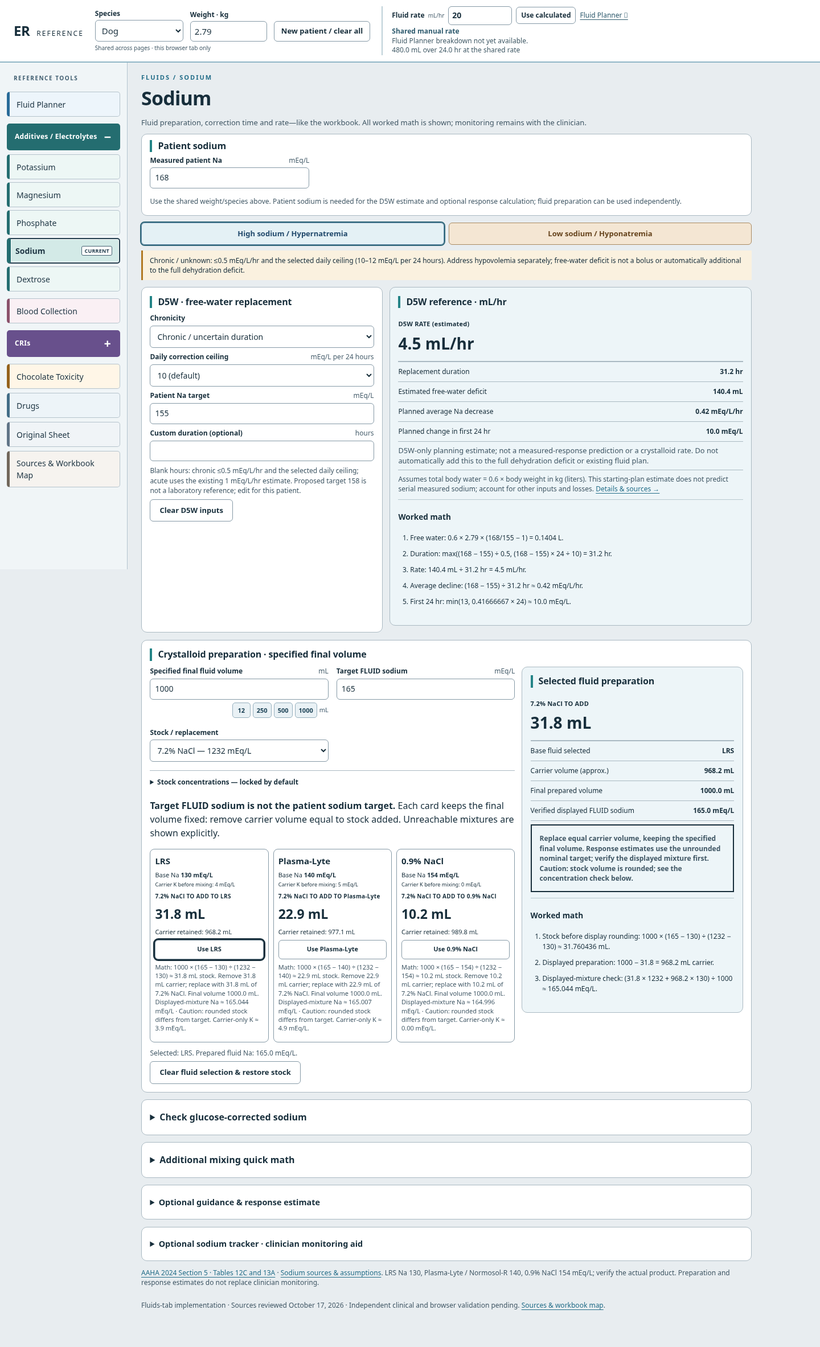
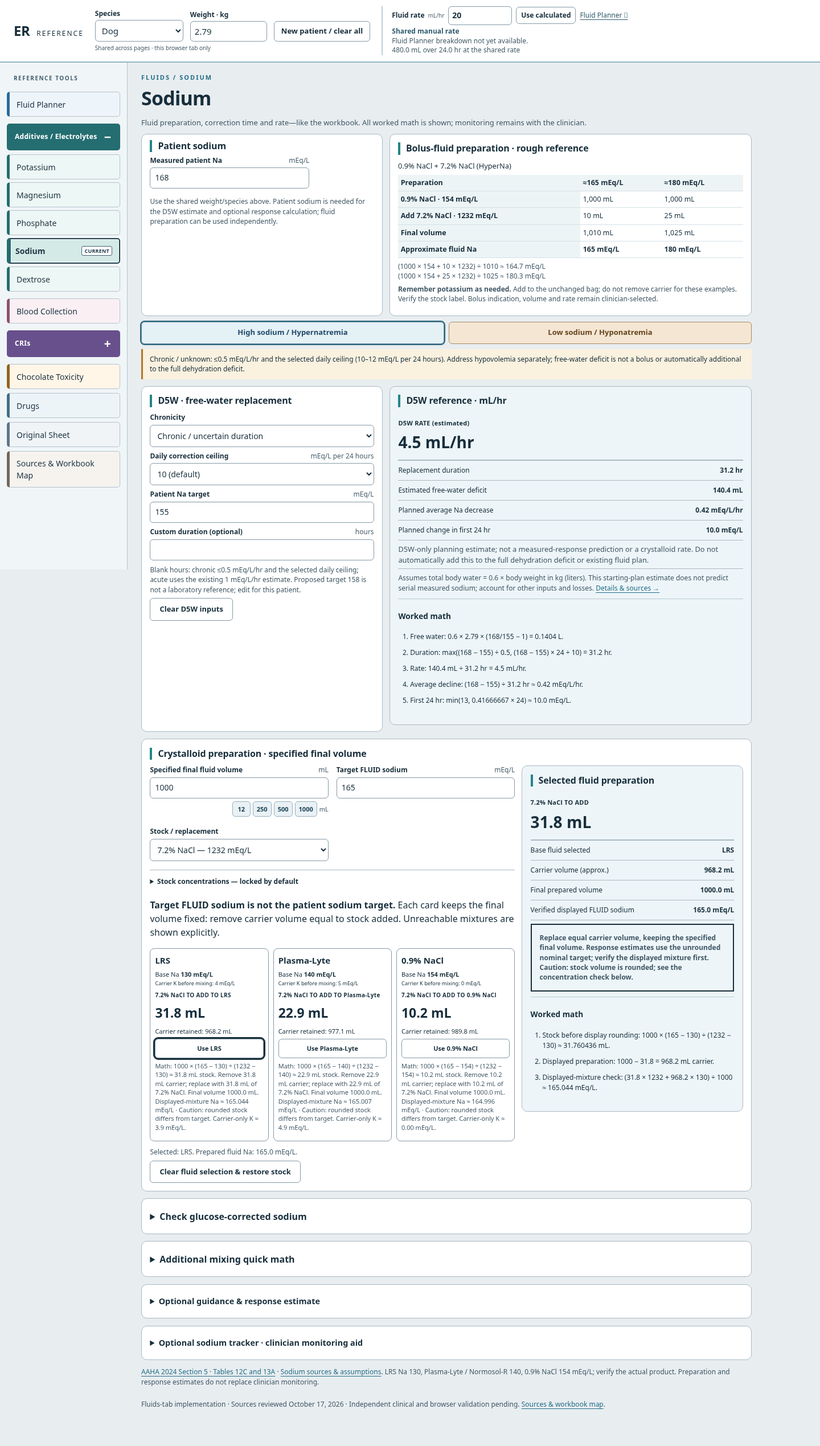
Add workbook saline quick reference beside patient sodium

diff --git a/dist/sodium.html b/dist/sodium.html
@@ -1,1 +1,1 @@
-<!doctype html><html lang="en"><head><meta charset="utf-8"><meta name="viewport" content="width=device-width,initial-scale=1"><title>Sodium · ER Reference</title><link rel="stylesheet" href="style.css"><link rel="stylesheet" href="sodium-simple.css"></head><body class="potassium-page electrolyte-compact sodium-simple" data-tool="sodium"><header class="patient-header"><a class="brand" href="index.html">ER<span>REFERENCE</span></a><div class="master-patient" role="group" aria-label="Shared patient"><label>Species<select id="masterSpecies"><option value="">Select species</option><option value="dog">Dog</option><option value="cat">Cat</option></select></label><label>Weight · kg<input id="masterWeight" type="number" inputmode="decimal" min="0.001" step="any" placeholder="Patient kg"></label><button type="button" id="clearPatient">New patient / clear all</button><small id="patientSessionNote">Shared patient · this browser tab only</small></div><section class="shared-fluid" aria-label="Shared fluid plan"><div class="shared-fluid-top"><label for="sharedFluidRate">Fluid rate <span>mL/hr</span></label><input id="sharedFluidRate" type="number" min=".001" step="any" placeholder="From planner / enter rate" aria-describedby="sharedFluidStatus"><button type="button" id="useCalculatedFluid">Use calculated</button><a href="index.html">Fluid Planner ↗</a></div><div id="sharedFluidStatus" class="shared-fluid-status" role="status"></div><div id="sharedFluidBreakdown" class="shared-fluid-breakdown"></div><div id="sharedFluidAmounts" class="shared-fluid-amounts"></div></section></header><a class="skip-link" href="#main-content">Skip to content</a><aside class="sidebar" aria-label="Reference navigation"><details id="sectionMenu" open><summary>Sections <span>— Sodium</span></summary><div class="sidebar-title">REFERENCE TOOLS</div><nav aria-label="Reference sections"><a href="index.html">Fluid Planner</a><details class="nav-group" open><summary>Additives / Electrolytes</summary><div class="nav-children"><a href="potassium.html">Potassium</a><a href="magnesium.html">Magnesium</a><a href="phosphate.html">Phosphate</a><a href="sodium.html" aria-current="page">Sodium<span class="current-page">Current</span></a><a href="dextrose.html">Dextrose</a></div></details><a href="blood-collection.html">Blood Collection</a><details class="nav-group cri-nav"><summary>CRIs</summary><div class="nav-children"><a href="cri-fentanyl.html">Fentanyl</a><a href="cri-lidocaine.html"><span class="lidocaine-nav-label">Lidocaine</span><span class="cat-restriction" hidden>Unavailable for cats</span></a><a href="cri-ketamine.html">Ketamine</a><a href="cri-norepinephrine.html">Norepinephrine</a><a href="cri-insulin.html">Insulin</a><a href="cri-reglan.html">Reglan</a></div></details><a href="chocolate.html">Chocolate Toxicity</a><a href="drugs.html">Drugs</a><a href="original-sheet.html">Original Sheet</a><a href="sources.html">Sources & Workbook Map</a></nav></details></aside><main id="main-content" class="electrolyte-main"><div class="eyebrow">FLUIDS / SODIUM</div><h1>Sodium</h1><p class="intro">Fluid preparation, correction time and rate—like the workbook. All worked math is shown; monitoring remains with the clinician.</p><form data-electrolyte class="compact-sodium-patient simple-sodium-context"><section class="panel"><h2>Patient sodium</h2><div class="patient-grid"><label>Measured patient Na <span>mEq/L</span><input id="nCurrent" type="number" min=".001" step="any" value="" required></label></div><p class="help">Use the shared weight/species above. Patient sodium is needed for the D5W estimate and optional response calculation; fluid preparation can be used independently.</p></section></form><div class="simple-sodium-paths" role="group" aria-label="Sodium pathway"><button type="button" data-path="hyper" aria-pressed="true">High sodium / Hypernatremia</button><button type="button" data-path="hypo" aria-pressed="false">Low sodium / Hyponatremia</button></div><section id="hyperWorkflow"><div class="notice">Chronic / unknown: ≤0.5 mEq/L/hr and the selected daily ceiling (10–12 mEq/L per 24 hours). Address hypovolemia separately; free-water deficit is not a bolus or automatically additional to the full dehydration deficit.</div><div class="sodium-two"><form data-electrolyte><section class="panel"><h2>D5W · free-water replacement</h2><label>Chronicity<select id="nType"><option value="chronic">Chronic / uncertain duration</option><option value="acute">Confirmed acute</option></select></label><label>Daily correction ceiling <span>mEq/L per 24 hours</span><select id="nDailyLimit"><option value="10">10 (default)</option><option value="11">11</option><option value="12">12</option></select></label><label>Patient Na target <span>mEq/L</span><input id="nGoal" type="number" min=".001" step="any" value="158" required></label><label>Custom duration (optional) <span>hours</span><input id="nHours" type="number" min=".001" step="any" value=""></label><p class="help">Blank hours: chronic ≤0.5 mEq/L/hr and the selected daily ceiling; acute uses the existing 1 mEq/L/hr estimate. Proposed target 158 is not a laboratory reference; edit for this patient.</p><button type="reset">Clear D5W inputs</button></section></form><section class="panel results compact-result" id="nWaterSection" tabindex="-1"><h2>D5W reference · mL/hr</h2><div id="nWater" aria-live="polite"></div><p id="resultAssumptions" class="help result-assumptions">Assumes total body water = 0.6 × body weight in kg (liters). This starting-plan estimate does not predict serial measured sodium; account for other inputs and losses. <a href="sources.html#sodium-source">Details &amp; sources →</a></p><section id="nWaterMath" class="worked-math"><h3>Worked math</h3><ol id="nWaterSteps"></ol></section></section></div></section><section class="panel compact-sodium-mix" id="mixingTool"><h2>Crystalloid preparation · specified final volume</h2><div class="sodium-mix-workspace"><form data-electrolyte><div class="patient-grid"><label>Specified final fluid volume <span>mL</span><input id="nVolume" type="number" min=".001" step="any" value="1000" required><span class="volume-presets" role="group" aria-label="Quick volumes in mL" data-volume-for="nVolume"><button type="button" data-volume-target="nVolume" data-volume-value="12" aria-label="Set volume to 12 mL">12</button><button type="button" data-volume-target="nVolume" data-volume-value="250" aria-label="Set volume to 250 mL">250</button><button type="button" data-volume-target="nVolume" data-volume-value="500" aria-label="Set volume to 500 mL">500</button><button type="button" data-volume-target="nVolume" data-volume-value="1000" aria-label="Set volume to 1000 mL">1000</button><small>mL</small></span></label><label>Target FLUID sodium <span>mEq/L</span><input id="nFluidGoal" type="number" min="0" step="any" value="" required></label><label>Stock / replacement<select id="nPreset"><option value="1232">7.2% NaCl — 1232 mEq/L</option><option value="1283">7.5% NaCl — 1283 mEq/L</option><option value="513">3% NaCl — 513 mEq/L</option><option value="0">D5W — sodium-free replacement · 0 mEq/L</option><option value="custom">Custom concentration</option></select></label></div><details class="stock-settings"><summary>Stock concentrations — locked by default</summary><div class="grid"><label>Stock / replacement Na <span>mEq/L</span><input id="nStock" data-stock type="number" readonly min="0" step="any" value="1232" required></label></div><button type="button" data-lock="nStock">Edit concentrations</button><span class="lock-state" data-lock-state="nStock">Locked</span><p class="help">Locked default: 7.2% NaCl at the workbook’s 1232 mEq/L. Choose 3% or 7.5% explicitly if those match your product, or unlock for a custom label concentration. Sodium-free replacement is formulation math only; it is not a routine hyponatremia treatment instruction.</p></details><input type="hidden" id="nBase" value=""><input type="hidden" id="nFluidName" value=""><p><b>Target FLUID sodium is not the patient sodium target.</b> Each card keeps the final volume fixed: remove carrier volume equal to stock added. Unreachable mixtures are shown explicitly.</p><div class="fluid-card-grid"><section class="fluid-card"><h3>LRS</h3><p>Base Na <b>130 mEq/L</b><br><small>Carrier K before mixing: 4 mEq/L</small></p><span class="card-output-label" id="nCardStockLabel0">7.2% NaCl TO ADD TO LRS</span><strong id="nCardMl0">— mL</strong><p id="nCardCarrier0">Carrier: — mL</p><button type="button" data-base="130" data-fluid="LRS" aria-pressed="false">Use LRS</button><div class="fluid-card-details"><p id="nCardNote0" class="help">Enter target fluid Na and volume.</p></div></section><section class="fluid-card"><h3>Plasma-Lyte</h3><p>Base Na <b>140 mEq/L</b><br><small>Carrier K before mixing: 5 mEq/L</small></p><span class="card-output-label" id="nCardStockLabel1">7.2% NaCl TO ADD TO Plasma-Lyte</span><strong id="nCardMl1">— mL</strong><p id="nCardCarrier1">Carrier: — mL</p><button type="button" data-base="140" data-fluid="Plasma-Lyte" aria-pressed="false">Use Plasma-Lyte</button><div class="fluid-card-details"><p id="nCardNote1" class="help">Enter target fluid Na and volume.</p></div></section><section class="fluid-card"><h3>0.9% NaCl</h3><p>Base Na <b>154 mEq/L</b><br><small>Carrier K before mixing: 0 mEq/L</small></p><span class="card-output-label" id="nCardStockLabel2">7.2% NaCl TO ADD TO 0.9% NaCl</span><strong id="nCardMl2">— mL</strong><p id="nCardCarrier2">Carrier: — mL</p><button type="button" data-base="154" data-fluid="0.9% NaCl" aria-pressed="false">Use 0.9% NaCl</button><div class="fluid-card-details"><p id="nCardNote2" class="help">Enter target fluid Na and volume.</p></div></section></div><p id="nSelectedFluid" class="help">No fluid selected yet.</p><button type="reset">Clear fluid selection & restore stock</button></form><section class="panel results compact-result" id="nMixSection" tabindex="-1"><h2>Selected fluid preparation</h2><div id="nMix" aria-live="polite"></div><section id="nMixMath" class="worked-math"><h3>Worked math</h3><ol id="nMixSteps"></ol></section></section></div></section><details class="panel"><summary>Check glucose-corrected sodium</summary><form data-electrolyte><div class="patient-grid"><label>Measured sodium <span>mEq/L</span><input id="gNa" type="number" min=".001" step="any" value="" required></label><label>Glucose <span>mg/dL</span><input id="gGlucose" type="number" min="100" step="any" value="" required></label></div><button type="reset">Clear glucose correction</button></form><section class="panel results compact-result" id="nGlucoseSection" tabindex="-1"><h2>Corrected sodium</h2><div id="nGlucose" aria-live="polite"></div><section id="nGlucoseMath" class="worked-math"><h3>Worked math</h3><ol id="nGlucoseSteps"></ol></section></section></details><details class="panel"><summary>Additional mixing quick math</summary><form data-electrolyte><div class="grid"><label>Fluid A volume <span>mL</span><input id="qVolumeA" type="number" min="0" step="any" value="" required><span class="volume-presets" role="group" aria-label="Quick volumes in mL" data-volume-for="qVolumeA"><button type="button" data-volume-target="qVolumeA" data-volume-value="12" aria-label="Set volume to 12 mL">12</button><button type="button" data-volume-target="qVolumeA" data-volume-value="250" aria-label="Set volume to 250 mL">250</button><button type="button" data-volume-target="qVolumeA" data-volume-value="500" aria-label="Set volume to 500 mL">500</button><button type="button" data-volume-target="qVolumeA" data-volume-value="1000" aria-label="Set volume to 1000 mL">1000</button><small>mL</small></span></label><label>Fluid A Na <span>mEq/L</span><input id="qNaA" type="number" min="0" step="any" value="130" required></label><label>Fluid B volume <span>mL</span><input id="qVolumeB" type="number" min="0" step="any" value="" required><span class="volume-presets" role="group" aria-label="Quick volumes in mL" data-volume-for="qVolumeB"><button type="button" data-volume-target="qVolumeB" data-volume-value="12" aria-label="Set volume to 12 mL">12</button><button type="button" data-volume-target="qVolumeB" data-volume-value="250" aria-label="Set volume to 250 mL">250</button><button type="button" data-volume-target="qVolumeB" data-volume-value="500" aria-label="Set volume to 500 mL">500</button><button type="button" data-volume-target="qVolumeB" data-volume-value="1000" aria-label="Set volume to 1000 mL">1000</button><small>mL</small></span></label><label>Fluid B Na <span>mEq/L</span><input id="qNaB" type="number" min="0" step="any" value="0" required></label></div><button type="reset">Clear quick math</button></form><section class="panel results compact-result" id="nQuickSection" tabindex="-1"><h2>Mixed fluid</h2><div id="nQuick" aria-live="polite"></div><section id="nQuickMath" class="worked-math"><h3>Worked math</h3><ol id="nQuickSteps"></ol></section></section></details><details class="panel" id="sodiumGuidance"><summary>Optional guidance & response estimate</summary><details class="workflow-checklist"><summary>Assessment checklist</summary><ol><li>Assess perfusion, neurologic signs, hydration, and chronicity.</li><li>Restore perfusion first if hypovolemic; investigate water access, water losses, renal concentrating ability, and sodium exposure.</li><li>Plan controlled free-water replacement; tailor fluid sodium when needed and recheck the measured response.</li></ol></details><details class="workflow-checklist"><summary>Assessment checklist</summary><ol><li>Assess neurologic urgency and perfusion first.</li><li>Confirm the result and glucose effect; assess volume status and chronicity.</li><li>Investigate the cause, choose the fluid and initial correction plan, then recheck sodium.</li></ol></details><section id="hypoWorkflow" hidden><div class="notice compact-caution">Neurologic compromise or hypoperfusion: assess and stabilize urgently. The mixing cards are not a rescue-bolus protocol.</div><details class="panel"><summary>Hyponatremia workup & investigation</summary><div class="sodium-two"><div><h3>Urgent assessment</h3><p>Seizures or marked neurologic compromise require urgent evaluation for symptomatic hyponatremia; consider other causes concurrently. Stabilize hypoperfusion with a fluid selected to avoid an abrupt sodium shift.</p><p>AAHA describes 2–6 mL/kg of 3–7.5% NaCl over 10–15 minutes for symptomatic cases, with reassessment. The mixing cards below are not this rescue-bolus protocol.</p></div><div><h3>Confirm & investigate</h3><ul><li>Repeat Na if unexpected; review assay/sample issues, glucose, and other chemistry findings.</li><li>Review GI/renal losses, third spacing, water intake, diuretics, desmopressin, and recent fluids; assess hydration and volume status.</li><li>Obtain urinalysis/USG and renal assessment as indicated. Consider measured osmolality and urine studies if the cause remains unclear.</li><li>In dogs with compatible findings, investigate hypoadrenocorticism; consider cardiac/hepatic/renal disease or inappropriate water retention according to the examination.</li></ul></div></div><details><summary>Canine Addison’s testing reference</summary><p>AAHA: resting cortisol &gt;2 µg/dL strongly excludes hypoadrenocorticism when assay-interfering glucocorticoids are absent. A lower result is not diagnostic; confirm with ACTH stimulation when indicated. Na:K ratio alone is not diagnostic.</p><a href="sources.html#hyponatremia-workup">Sources and limitations</a></details><p class="help">Chronic/uncertain cases: use a conservative starting plan within 0.5 mEq/L/hr and 10–12 mEq/L/day; monitor the actual response. This is a focused ER workflow, not an exhaustive differential list.</p></details></section><section id="hypoPlan" hidden><div class="sodium-two"><form data-electrolyte><section class="panel"><h2>Hyponatremia starting plan</h2><div class="grid"><label>Selected prepared fluid Na <span>mEq/L</span><input id="hFluidNa" type="number" readonly min="0" step="any" value="" required></label><label>TOTAL K in the administered fluid <span>mEq/L</span><input id="hFluidK" type="number" min="0" step="any" value="" required></label><label>Planned fluid rate <span>mL/hr</span><input id="hRate" type="number" min=".001" step="any" value="" required></label><label>Planning interval <span>hours</span><input id="hHours" type="number" min=".001" step="any" value="24" required></label></div><p class="help">Uses the selected fluid card and the shared patient weight/Na. Enter all potassium in the administered fluid, including carrier K and additives; K affects this sodium-response equation.</p><button type="reset">Clear starting-plan inputs</button><p class="help">The per-liter Adrogué–Madias estimate is scaled to planned volume. This approximate starting estimate omits evolving losses and renal water handling; serial Na measurements take precedence.</p></section></form><section class="panel results compact-result" id="hResponseSection" tabindex="-1"><h2>Predicted sodium response</h2><div id="hResponse" aria-live="polite"></div><section id="hResponseMath" class="worked-math"><h3>Worked math</h3><ol id="hResponseSteps"></ol></section></section></div></section></details><details class="panel" id="sodiumTracker"><summary>Optional sodium tracker · clinician monitoring aid</summary><p class="help">Independent notes only: adding a sample never changes the reference calculations or shared fluid plan. This is not a complete 24-hour safety assessment or medical record.</p><form id="naTrackerForm" novalidate><div class="patient-grid"><label>Measured Na · mEq/L<input id="naSample" type="number" min="0.001" step="any" aria-describedby="naTrackerError"></label><label>Sample date/time · local<input id="naTime" type="datetime-local" aria-describedby="naTrackerError"></label></div><button type="submit">Add sample</button><p id="naTrackerError" class="critical-note" role="status"></p></form><div id="naTrackerResult" aria-live="polite"></div><div class="table-wrap"><table><caption>Recorded samples · this tab only</caption><thead><tr><th scope="col">Time</th><th scope="col">Na · mEq/L</th><th scope="col">Change</th><th scope="col">mEq/L/hr</th></tr></thead><tbody id="naTrackerRows"></tbody></table></div><p class="help">Times and sodium values are clinician-entered. Earlier results are retained when adding samples. New patient clears the tracker. The calculator does not automatically use these readings.</p></details><p class="help sodium-reference-source"><a href="https://www.aaha.org/resources/2024-aaha-fluid-therapy-guidelines-for-dogs-and-cats/section-5-fluid-therapy-in-ill-patients/">AAHA 2024 Section 5 · Tables 12C and 13A</a> · <a href="sources.html#sodium-source">Sodium sources & assumptions</a>. LRS Na 130, Plasma-Lyte / Normosol-R 140, 0.9% NaCl 154 mEq/L; verify the actual product. Preparation and response estimates do not replace clinician monitoring.</p><footer>Fluids-tab implementation · Sources reviewed October 17, 2026 · Independent clinical and browser validation pending. <a href="sources.html">Sources & workbook map</a>.</footer><label hidden>Patient weight <span>kg</span><input id="nWeight" type="number" min=".001" step="any" value="" required></label><label hidden>Species<select id="gSpecies"><option value="dog">Canine</option><option value="cat">Feline — extrapolated</option></select></label></main><script src="number-format.js"></script><script src="preparation-check.js"></script><script src="calc.js"></script><script src="electrolyte-calc.js"></script><script src="electrolyte-layout.js"></script><script src="electrolytes.js"></script><script src="navigation.js"></script><script src="patient-context.js"></script><script src="fluid-reference.js"></script><script src="volume-presets.js"></script><script src="sodium-simple.js"></script></body></html>
+<!doctype html><html lang="en"><head><meta charset="utf-8"><meta name="viewport" content="width=device-width,initial-scale=1"><title>Sodium · ER Reference</title><link rel="stylesheet" href="style.css"><link rel="stylesheet" href="sodium-simple.css"></head><body class="potassium-page electrolyte-compact sodium-simple" data-tool="sodium"><header class="patient-header"><a class="brand" href="index.html">ER<span>REFERENCE</span></a><div class="master-patient" role="group" aria-label="Shared patient"><label>Species<select id="masterSpecies"><option value="">Select species</option><option value="dog">Dog</option><option value="cat">Cat</option></select></label><label>Weight · kg<input id="masterWeight" type="number" inputmode="decimal" min="0.001" step="any" placeholder="Patient kg"></label><button type="button" id="clearPatient">New patient / clear all</button><small id="patientSessionNote">Shared patient · this browser tab only</small></div><section class="shared-fluid" aria-label="Shared fluid plan"><div class="shared-fluid-top"><label for="sharedFluidRate">Fluid rate <span>mL/hr</span></label><input id="sharedFluidRate" type="number" min=".001" step="any" placeholder="From planner / enter rate" aria-describedby="sharedFluidStatus"><button type="button" id="useCalculatedFluid">Use calculated</button><a href="index.html">Fluid Planner ↗</a></div><div id="sharedFluidStatus" class="shared-fluid-status" role="status"></div><div id="sharedFluidBreakdown" class="shared-fluid-breakdown"></div><div id="sharedFluidAmounts" class="shared-fluid-amounts"></div></section></header><a class="skip-link" href="#main-content">Skip to content</a><aside class="sidebar" aria-label="Reference navigation"><details id="sectionMenu" open><summary>Sections <span>— Sodium</span></summary><div class="sidebar-title">REFERENCE TOOLS</div><nav aria-label="Reference sections"><a href="index.html">Fluid Planner</a><details class="nav-group" open><summary>Additives / Electrolytes</summary><div class="nav-children"><a href="potassium.html">Potassium</a><a href="magnesium.html">Magnesium</a><a href="phosphate.html">Phosphate</a><a href="sodium.html" aria-current="page">Sodium<span class="current-page">Current</span></a><a href="dextrose.html">Dextrose</a></div></details><a href="blood-collection.html">Blood Collection</a><details class="nav-group cri-nav"><summary>CRIs</summary><div class="nav-children"><a href="cri-fentanyl.html">Fentanyl</a><a href="cri-lidocaine.html"><span class="lidocaine-nav-label">Lidocaine</span><span class="cat-restriction" hidden>Unavailable for cats</span></a><a href="cri-ketamine.html">Ketamine</a><a href="cri-norepinephrine.html">Norepinephrine</a><a href="cri-insulin.html">Insulin</a><a href="cri-reglan.html">Reglan</a></div></details><a href="chocolate.html">Chocolate Toxicity</a><a href="drugs.html">Drugs</a><a href="original-sheet.html">Original Sheet</a><a href="sources.html">Sources & Workbook Map</a></nav></details></aside><main id="main-content" class="electrolyte-main"><div class="eyebrow">FLUIDS / SODIUM</div><h1>Sodium</h1><p class="intro">Fluid preparation, correction time and rate—like the workbook. All worked math is shown; monitoring remains with the clinician.</p><div class="simple-sodium-top"><form data-electrolyte class="compact-sodium-patient simple-sodium-context"><section class="panel"><h2>Patient sodium</h2><div class="patient-grid"><label>Measured patient Na <span>mEq/L</span><input id="nCurrent" type="number" min=".001" step="any" value="" required></label></div><p class="help">Use the shared weight/species above. Patient sodium is needed for the D5W estimate and optional response calculation; fluid preparation can be used independently.</p></section></form><section class="panel" id="sodiumQuickReference" aria-label="Rough bolus-fluid preparation reference"><h2>Bolus-fluid preparation · rough reference</h2><table><caption>0.9% NaCl + 7.2% NaCl (HyperNa)</caption><thead><tr><th scope="col">Preparation</th><th scope="col">≈165 mEq/L</th><th scope="col">≈180 mEq/L</th></tr></thead><tbody><tr><th scope="row">0.9% NaCl · 154 mEq/L</th><td>1,000 mL</td><td>1,000 mL</td></tr><tr><th scope="row">Add 7.2% NaCl · 1232 mEq/L</th><td>10 mL</td><td>25 mL</td></tr><tr><th scope="row">Final volume</th><td>1,010 mL</td><td>1,025 mL</td></tr><tr><th scope="row">Approximate fluid Na</th><td><b>165 mEq/L</b></td><td><b>180 mEq/L</b></td></tr></tbody></table><p class="help quick-reference-math">(1000 × 154 + 10 × 1232) ÷ 1010 ≈ 164.7 mEq/L<br>(1000 × 154 + 25 × 1232) ÷ 1025 ≈ 180.3 mEq/L</p><p class="help"><b>Remember potassium as needed.</b> Add to the unchanged bag; do not remove carrier for these examples. Verify the stock label. Bolus indication, volume and rate remain clinician-selected.</p></section></div><div class="simple-sodium-paths" role="group" aria-label="Sodium pathway"><button type="button" data-path="hyper" aria-pressed="true">High sodium / Hypernatremia</button><button type="button" data-path="hypo" aria-pressed="false">Low sodium / Hyponatremia</button></div><section id="hyperWorkflow"><div class="notice">Chronic / unknown: ≤0.5 mEq/L/hr and the selected daily ceiling (10–12 mEq/L per 24 hours). Address hypovolemia separately; free-water deficit is not a bolus or automatically additional to the full dehydration deficit.</div><div class="sodium-two"><form data-electrolyte><section class="panel"><h2>D5W · free-water replacement</h2><label>Chronicity<select id="nType"><option value="chronic">Chronic / uncertain duration</option><option value="acute">Confirmed acute</option></select></label><label>Daily correction ceiling <span>mEq/L per 24 hours</span><select id="nDailyLimit"><option value="10">10 (default)</option><option value="11">11</option><option value="12">12</option></select></label><label>Patient Na target <span>mEq/L</span><input id="nGoal" type="number" min=".001" step="any" value="158" required></label><label>Custom duration (optional) <span>hours</span><input id="nHours" type="number" min=".001" step="any" value=""></label><p class="help">Blank hours: chronic ≤0.5 mEq/L/hr and the selected daily ceiling; acute uses the existing 1 mEq/L/hr estimate. Proposed target 158 is not a laboratory reference; edit for this patient.</p><button type="reset">Clear D5W inputs</button></section></form><section class="panel results compact-result" id="nWaterSection" tabindex="-1"><h2>D5W reference · mL/hr</h2><div id="nWater" aria-live="polite"></div><p id="resultAssumptions" class="help result-assumptions">Assumes total body water = 0.6 × body weight in kg (liters). This starting-plan estimate does not predict serial measured sodium; account for other inputs and losses. <a href="sources.html#sodium-source">Details &amp; sources →</a></p><section id="nWaterMath" class="worked-math"><h3>Worked math</h3><ol id="nWaterSteps"></ol></section></section></div></section><section class="panel compact-sodium-mix" id="mixingTool"><h2>Crystalloid preparation · specified final volume</h2><div class="sodium-mix-workspace"><form data-electrolyte><div class="patient-grid"><label>Specified final fluid volume <span>mL</span><input id="nVolume" type="number" min=".001" step="any" value="1000" required><span class="volume-presets" role="group" aria-label="Quick volumes in mL" data-volume-for="nVolume"><button type="button" data-volume-target="nVolume" data-volume-value="12" aria-label="Set volume to 12 mL">12</button><button type="button" data-volume-target="nVolume" data-volume-value="250" aria-label="Set volume to 250 mL">250</button><button type="button" data-volume-target="nVolume" data-volume-value="500" aria-label="Set volume to 500 mL">500</button><button type="button" data-volume-target="nVolume" data-volume-value="1000" aria-label="Set volume to 1000 mL">1000</button><small>mL</small></span></label><label>Target FLUID sodium <span>mEq/L</span><input id="nFluidGoal" type="number" min="0" step="any" value="" required></label><label>Stock / replacement<select id="nPreset"><option value="1232">7.2% NaCl — 1232 mEq/L</option><option value="1283">7.5% NaCl — 1283 mEq/L</option><option value="513">3% NaCl — 513 mEq/L</option><option value="0">D5W — sodium-free replacement · 0 mEq/L</option><option value="custom">Custom concentration</option></select></label></div><details class="stock-settings"><summary>Stock concentrations — locked by default</summary><div class="grid"><label>Stock / replacement Na <span>mEq/L</span><input id="nStock" data-stock type="number" readonly min="0" step="any" value="1232" required></label></div><button type="button" data-lock="nStock">Edit concentrations</button><span class="lock-state" data-lock-state="nStock">Locked</span><p class="help">Locked default: 7.2% NaCl at the workbook’s 1232 mEq/L. Choose 3% or 7.5% explicitly if those match your product, or unlock for a custom label concentration. Sodium-free replacement is formulation math only; it is not a routine hyponatremia treatment instruction.</p></details><input type="hidden" id="nBase" value=""><input type="hidden" id="nFluidName" value=""><p><b>Target FLUID sodium is not the patient sodium target.</b> Each card keeps the final volume fixed: remove carrier volume equal to stock added. Unreachable mixtures are shown explicitly.</p><div class="fluid-card-grid"><section class="fluid-card"><h3>LRS</h3><p>Base Na <b>130 mEq/L</b><br><small>Carrier K before mixing: 4 mEq/L</small></p><span class="card-output-label" id="nCardStockLabel0">7.2% NaCl TO ADD TO LRS</span><strong id="nCardMl0">— mL</strong><p id="nCardCarrier0">Carrier: — mL</p><button type="button" data-base="130" data-fluid="LRS" aria-pressed="false">Use LRS</button><div class="fluid-card-details"><p id="nCardNote0" class="help">Enter target fluid Na and volume.</p></div></section><section class="fluid-card"><h3>Plasma-Lyte</h3><p>Base Na <b>140 mEq/L</b><br><small>Carrier K before mixing: 5 mEq/L</small></p><span class="card-output-label" id="nCardStockLabel1">7.2% NaCl TO ADD TO Plasma-Lyte</span><strong id="nCardMl1">— mL</strong><p id="nCardCarrier1">Carrier: — mL</p><button type="button" data-base="140" data-fluid="Plasma-Lyte" aria-pressed="false">Use Plasma-Lyte</button><div class="fluid-card-details"><p id="nCardNote1" class="help">Enter target fluid Na and volume.</p></div></section><section class="fluid-card"><h3>0.9% NaCl</h3><p>Base Na <b>154 mEq/L</b><br><small>Carrier K before mixing: 0 mEq/L</small></p><span class="card-output-label" id="nCardStockLabel2">7.2% NaCl TO ADD TO 0.9% NaCl</span><strong id="nCardMl2">— mL</strong><p id="nCardCarrier2">Carrier: — mL</p><button type="button" data-base="154" data-fluid="0.9% NaCl" aria-pressed="false">Use 0.9% NaCl</button><div class="fluid-card-details"><p id="nCardNote2" class="help">Enter target fluid Na and volume.</p></div></section></div><p id="nSelectedFluid" class="help">No fluid selected yet.</p><button type="reset">Clear fluid selection & restore stock</button></form><section class="panel results compact-result" id="nMixSection" tabindex="-1"><h2>Selected fluid preparation</h2><div id="nMix" aria-live="polite"></div><section id="nMixMath" class="worked-math"><h3>Worked math</h3><ol id="nMixSteps"></ol></section></section></div></section><details class="panel"><summary>Check glucose-corrected sodium</summary><form data-electrolyte><div class="patient-grid"><label>Measured sodium <span>mEq/L</span><input id="gNa" type="number" min=".001" step="any" value="" required></label><label>Glucose <span>mg/dL</span><input id="gGlucose" type="number" min="100" step="any" value="" required></label></div><button type="reset">Clear glucose correction</button></form><section class="panel results compact-result" id="nGlucoseSection" tabindex="-1"><h2>Corrected sodium</h2><div id="nGlucose" aria-live="polite"></div><section id="nGlucoseMath" class="worked-math"><h3>Worked math</h3><ol id="nGlucoseSteps"></ol></section></section></details><details class="panel"><summary>Additional mixing quick math</summary><form data-electrolyte><div class="grid"><label>Fluid A volume <span>mL</span><input id="qVolumeA" type="number" min="0" step="any" value="" required><span class="volume-presets" role="group" aria-label="Quick volumes in mL" data-volume-for="qVolumeA"><button type="button" data-volume-target="qVolumeA" data-volume-value="12" aria-label="Set volume to 12 mL">12</button><button type="button" data-volume-target="qVolumeA" data-volume-value="250" aria-label="Set volume to 250 mL">250</button><button type="button" data-volume-target="qVolumeA" data-volume-value="500" aria-label="Set volume to 500 mL">500</button><button type="button" data-volume-target="qVolumeA" data-volume-value="1000" aria-label="Set volume to 1000 mL">1000</button><small>mL</small></span></label><label>Fluid A Na <span>mEq/L</span><input id="qNaA" type="number" min="0" step="any" value="130" required></label><label>Fluid B volume <span>mL</span><input id="qVolumeB" type="number" min="0" step="any" value="" required><span class="volume-presets" role="group" aria-label="Quick volumes in mL" data-volume-for="qVolumeB"><button type="button" data-volume-target="qVolumeB" data-volume-value="12" aria-label="Set volume to 12 mL">12</button><button type="button" data-volume-target="qVolumeB" data-volume-value="250" aria-label="Set volume to 250 mL">250</button><button type="button" data-volume-target="qVolumeB" data-volume-value="500" aria-label="Set volume to 500 mL">500</button><button type="button" data-volume-target="qVolumeB" data-volume-value="1000" aria-label="Set volume to 1000 mL">1000</button><small>mL</small></span></label><label>Fluid B Na <span>mEq/L</span><input id="qNaB" type="number" min="0" step="any" value="0" required></label></div><button type="reset">Clear quick math</button></form><section class="panel results compact-result" id="nQuickSection" tabindex="-1"><h2>Mixed fluid</h2><div id="nQuick" aria-live="polite"></div><section id="nQuickMath" class="worked-math"><h3>Worked math</h3><ol id="nQuickSteps"></ol></section></section></details><details class="panel" id="sodiumGuidance"><summary>Optional guidance & response estimate</summary><details class="workflow-checklist"><summary>Assessment checklist</summary><ol><li>Assess perfusion, neurologic signs, hydration, and chronicity.</li><li>Restore perfusion first if hypovolemic; investigate water access, water losses, renal concentrating ability, and sodium exposure.</li><li>Plan controlled free-water replacement; tailor fluid sodium when needed and recheck the measured response.</li></ol></details><details class="workflow-checklist"><summary>Assessment checklist</summary><ol><li>Assess neurologic urgency and perfusion first.</li><li>Confirm the result and glucose effect; assess volume status and chronicity.</li><li>Investigate the cause, choose the fluid and initial correction plan, then recheck sodium.</li></ol></details><section id="hypoWorkflow" hidden><div class="notice compact-caution">Neurologic compromise or hypoperfusion: assess and stabilize urgently. The mixing cards are not a rescue-bolus protocol.</div><details class="panel"><summary>Hyponatremia workup & investigation</summary><div class="sodium-two"><div><h3>Urgent assessment</h3><p>Seizures or marked neurologic compromise require urgent evaluation for symptomatic hyponatremia; consider other causes concurrently. Stabilize hypoperfusion with a fluid selected to avoid an abrupt sodium shift.</p><p>AAHA describes 2–6 mL/kg of 3–7.5% NaCl over 10–15 minutes for symptomatic cases, with reassessment. The mixing cards below are not this rescue-bolus protocol.</p></div><div><h3>Confirm & investigate</h3><ul><li>Repeat Na if unexpected; review assay/sample issues, glucose, and other chemistry findings.</li><li>Review GI/renal losses, third spacing, water intake, diuretics, desmopressin, and recent fluids; assess hydration and volume status.</li><li>Obtain urinalysis/USG and renal assessment as indicated. Consider measured osmolality and urine studies if the cause remains unclear.</li><li>In dogs with compatible findings, investigate hypoadrenocorticism; consider cardiac/hepatic/renal disease or inappropriate water retention according to the examination.</li></ul></div></div><details><summary>Canine Addison’s testing reference</summary><p>AAHA: resting cortisol &gt;2 µg/dL strongly excludes hypoadrenocorticism when assay-interfering glucocorticoids are absent. A lower result is not diagnostic; confirm with ACTH stimulation when indicated. Na:K ratio alone is not diagnostic.</p><a href="sources.html#hyponatremia-workup">Sources and limitations</a></details><p class="help">Chronic/uncertain cases: use a conservative starting plan within 0.5 mEq/L/hr and 10–12 mEq/L/day; monitor the actual response. This is a focused ER workflow, not an exhaustive differential list.</p></details></section><section id="hypoPlan" hidden><div class="sodium-two"><form data-electrolyte><section class="panel"><h2>Hyponatremia starting plan</h2><div class="grid"><label>Selected prepared fluid Na <span>mEq/L</span><input id="hFluidNa" type="number" readonly min="0" step="any" value="" required></label><label>TOTAL K in the administered fluid <span>mEq/L</span><input id="hFluidK" type="number" min="0" step="any" value="" required></label><label>Planned fluid rate <span>mL/hr</span><input id="hRate" type="number" min=".001" step="any" value="" required></label><label>Planning interval <span>hours</span><input id="hHours" type="number" min=".001" step="any" value="24" required></label></div><p class="help">Uses the selected fluid card and the shared patient weight/Na. Enter all potassium in the administered fluid, including carrier K and additives; K affects this sodium-response equation.</p><button type="reset">Clear starting-plan inputs</button><p class="help">The per-liter Adrogué–Madias estimate is scaled to planned volume. This approximate starting estimate omits evolving losses and renal water handling; serial Na measurements take precedence.</p></section></form><section class="panel results compact-result" id="hResponseSection" tabindex="-1"><h2>Predicted sodium response</h2><div id="hResponse" aria-live="polite"></div><section id="hResponseMath" class="worked-math"><h3>Worked math</h3><ol id="hResponseSteps"></ol></section></section></div></section></details><details class="panel" id="sodiumTracker"><summary>Optional sodium tracker · clinician monitoring aid</summary><p class="help">Independent notes only: adding a sample never changes the reference calculations or shared fluid plan. This is not a complete 24-hour safety assessment or medical record.</p><form id="naTrackerForm" novalidate><div class="patient-grid"><label>Measured Na · mEq/L<input id="naSample" type="number" min="0.001" step="any" aria-describedby="naTrackerError"></label><label>Sample date/time · local<input id="naTime" type="datetime-local" aria-describedby="naTrackerError"></label></div><button type="submit">Add sample</button><p id="naTrackerError" class="critical-note" role="status"></p></form><div id="naTrackerResult" aria-live="polite"></div><div class="table-wrap"><table><caption>Recorded samples · this tab only</caption><thead><tr><th scope="col">Time</th><th scope="col">Na · mEq/L</th><th scope="col">Change</th><th scope="col">mEq/L/hr</th></tr></thead><tbody id="naTrackerRows"></tbody></table></div><p class="help">Times and sodium values are clinician-entered. Earlier results are retained when adding samples. New patient clears the tracker. The calculator does not automatically use these readings.</p></details><p class="help sodium-reference-source"><a href="https://www.aaha.org/resources/2024-aaha-fluid-therapy-guidelines-for-dogs-and-cats/section-5-fluid-therapy-in-ill-patients/">AAHA 2024 Section 5 · Tables 12C and 13A</a> · <a href="sources.html#sodium-source">Sodium sources & assumptions</a>. LRS Na 130, Plasma-Lyte / Normosol-R 140, 0.9% NaCl 154 mEq/L; verify the actual product. Preparation and response estimates do not replace clinician monitoring.</p><footer>Fluids-tab implementation · Sources reviewed October 17, 2026 · Independent clinical and browser validation pending. <a href="sources.html">Sources & workbook map</a>.</footer><label hidden>Patient weight <span>kg</span><input id="nWeight" type="number" min=".001" step="any" value="" required></label><label hidden>Species<select id="gSpecies"><option value="dog">Canine</option><option value="cat">Feline — extrapolated</option></select></label></main><script src="number-format.js"></script><script src="preparation-check.js"></script><script src="calc.js"></script><script src="electrolyte-calc.js"></script><script src="electrolyte-layout.js"></script><script src="electrolytes.js"></script><script src="navigation.js"></script><script src="patient-context.js"></script><script src="fluid-reference.js"></script><script src="volume-presets.js"></script><script src="sodium-simple.js"></script></body></html>

diff --git a/dist/sodium-simple.css b/dist/sodium-simple.css
@@ -4,3 +4,6 @@
 @media(max-width:600px){.simple-sodium-paths button{font-size:.8rem}.sodium-simple .panel{padding:.7rem}.sodium-simple .line{flex-wrap:wrap;gap:.2rem}.sodium-simple .fluid-card-grid{grid-template-columns:1fr}.sodium-simple .fluid-card-details{font-size:.8rem}}
 @media print{.sodium-simple>.sidebar,.sodium-simple>.skip-link,.sodium-simple>.patient-header,.simple-sodium-paths,.sodium-simple button{display:none!important}.sodium-simple main{margin:0!important;padding:.4rem!important}.sodium-simple .panel{break-inside:auto;padding:.5rem}.sodium-simple .worked-math{display:block!important}.sodium-simple .worked-math ol{font-size:9pt}.sodium-simple h2,.sodium-simple h3{break-after:avoid}.sodium-simple .fluid-card{break-inside:avoid}.sodium-simple [hidden]{display:none!important}#sodiumGuidance:not([open]),#sodiumTracker:not([open]){display:none!important}.sodium-simple .sodium-mix-workspace{display:block}.sodium-simple input,.sodium-simple select{font-size:10pt}}
 @media print{.sodium-simple #hyperWorkflow .sodium-two{display:grid;grid-template-columns:.8fr 1.2fr;gap:.5rem}.sodium-simple #hyperWorkflow .sodium-two>form .panel{height:auto}.sodium-simple input,.sodium-simple select{padding:.2rem;line-height:1.2}.sodium-simple .help{font-size:9pt}.sodium-simple .line{font-size:10pt;break-inside:avoid}}
+.simple-sodium-top{display:grid;grid-template-columns:minmax(240px,.8fr) minmax(420px,1.2fr);gap:.7rem;align-items:stretch;margin-bottom:.6rem}.simple-sodium-top>form{margin:0}.simple-sodium-top>form>.panel{height:100%;margin:0}#sodiumQuickReference{margin:0}#sodiumQuickReference table{width:100%;border-collapse:collapse;font-size:.78rem}#sodiumQuickReference caption{text-align:left;font-size:.8rem;margin-bottom:.35rem}#sodiumQuickReference th,#sodiumQuickReference td{text-align:left;padding:.3rem;border-bottom:1px solid #d5e0e5}#sodiumQuickReference .help{font-size:.75rem;margin:.4rem 0;line-height:1.4}.quick-reference-math{font-variant-numeric:tabular-nums}
+@media(max-width:800px){.simple-sodium-top{grid-template-columns:minmax(0,1fr)}#sodiumQuickReference table{font-size:.72rem}}
+@media print{.simple-sodium-top{grid-template-columns:.7fr 1.3fr;gap:.4rem}#sodiumQuickReference{break-inside:avoid!important}#sodiumQuickReference th,#sodiumQuickReference td{font-size:8pt;padding:.2rem}#sodiumQuickReference .help{font-size:8pt}}

diff --git a/scripts/simple-sodium.py b/scripts/simple-sodium.py
@@ -55,4 +55,10 @@ for para in list(root.byid('nWaterSection').all(lambda n:n.tag=='p')):
 waterform=root.byid('nGoal').parent.parent
 waterform.one(lambda n:n.tag=='p').children=['Blank hours: chronic ≤0.5 mEq/L/hr and the selected daily ceiling; acute uses the existing 1 mEq/L/hr estimate. Proposed target 158 is not a laboratory reference; edit for this patient.']
 for opt in root.byid('nPreset').all(lambda n:n.tag=='option' and n.attrs.get('value')=='0'):opt.children=['D5W — sodium-free replacement · 0 mEq/L']
+# Keep the workbook's add-on quick reference beside patient sodium.
+if not root.all(lambda n:n.attrs.get('id')=='sodiumQuickReference'):
+ patient=main.one(lambda n:n.tag=='form' and n.cls('simple-sodium-context'))
+ pos=main.children.index(patient);patient.remove()
+ top=N('div',[('class','simple-sodium-top')]);main.add(top,pos);top.add(patient)
+ top.add(P('''<section class="panel" id="sodiumQuickReference" aria-label="Rough bolus-fluid preparation reference"><h2>Bolus-fluid preparation · rough reference</h2><table><caption>0.9% NaCl + 7.2% NaCl (HyperNa)</caption><thead><tr><th scope="col">Preparation</th><th scope="col">≈165 mEq/L</th><th scope="col">≈180 mEq/L</th></tr></thead><tbody><tr><th scope="row">0.9% NaCl · 154 mEq/L</th><td>1,000 mL</td><td>1,000 mL</td></tr><tr><th scope="row">Add 7.2% NaCl · 1232 mEq/L</th><td>10 mL</td><td>25 mL</td></tr><tr><th scope="row">Final volume</th><td>1,010 mL</td><td>1,025 mL</td></tr><tr><th scope="row">Approximate fluid Na</th><td><b>165 mEq/L</b></td><td><b>180 mEq/L</b></td></tr></tbody></table><p class="help quick-reference-math">(1000 × 154 + 10 × 1232) ÷ 1010 ≈ 164.7 mEq/L<br>(1000 × 154 + 25 × 1232) ÷ 1025 ≈ 180.3 mEq/L</p><p class="help"><b>Remember potassium as needed.</b> Add to the unchanged bag; do not remove carrier for these examples. Verify the stock label. Bolus indication, volume and rate remain clinician-selected.</p></section>''').root.children[0])
 p.write_text(root.render())

diff --git a/SODIUM-REFERENCE.md b/SODIUM-REFERENCE.md
@@ -2,6 +2,7 @@
 
 This replaces the closed PR's treatment-management workflow with a workbook-style calculation aid, built from current main. No mandatory samples, perfusion assessments, prescription recording, confirmation gates or shared-rate transfers were added.
 
+- Top quick reference: beside patient sodium, the workbook's unchanged 1,000 mL saline bag plus 10 or 25 mL of 7.2% NaCl (1232 mEq/L) produces final volumes 1,010/1,025 mL and fluid Na about 165/180 mEq/L. Add-on math is visible; bolus indication, patient volume and rate remain clinician-selected. This differs from the final-volume replacement calculator below.
 - High sodium: patient target, editable correction hours, D5W deficit and mL/hr. Existing acute reference remains; chronic default hours respect both 0.5 mEq/L/hr and the clinician-selected daily ceiling of 10, 11 or 12 mEq/L per 24 hours (default 10). Custom hours retain the existing hourly safeguard and a daily-limit warning.
 - Low sodium: select desired final fluid volume and fluid sodium, then see the crystalloid removal and D5W replacement for LRS, Plasma-Lyte and saline. Selecting the pathway sets its stock preset and clears the previous target/selection so an old result cannot appear current.
 - Substituted equations are always visible for every active tool, including actual displayed-mixture verification after stock-volume rounding. Internal calculations retain precision. Patient target and fluid concentration remain distinct.
